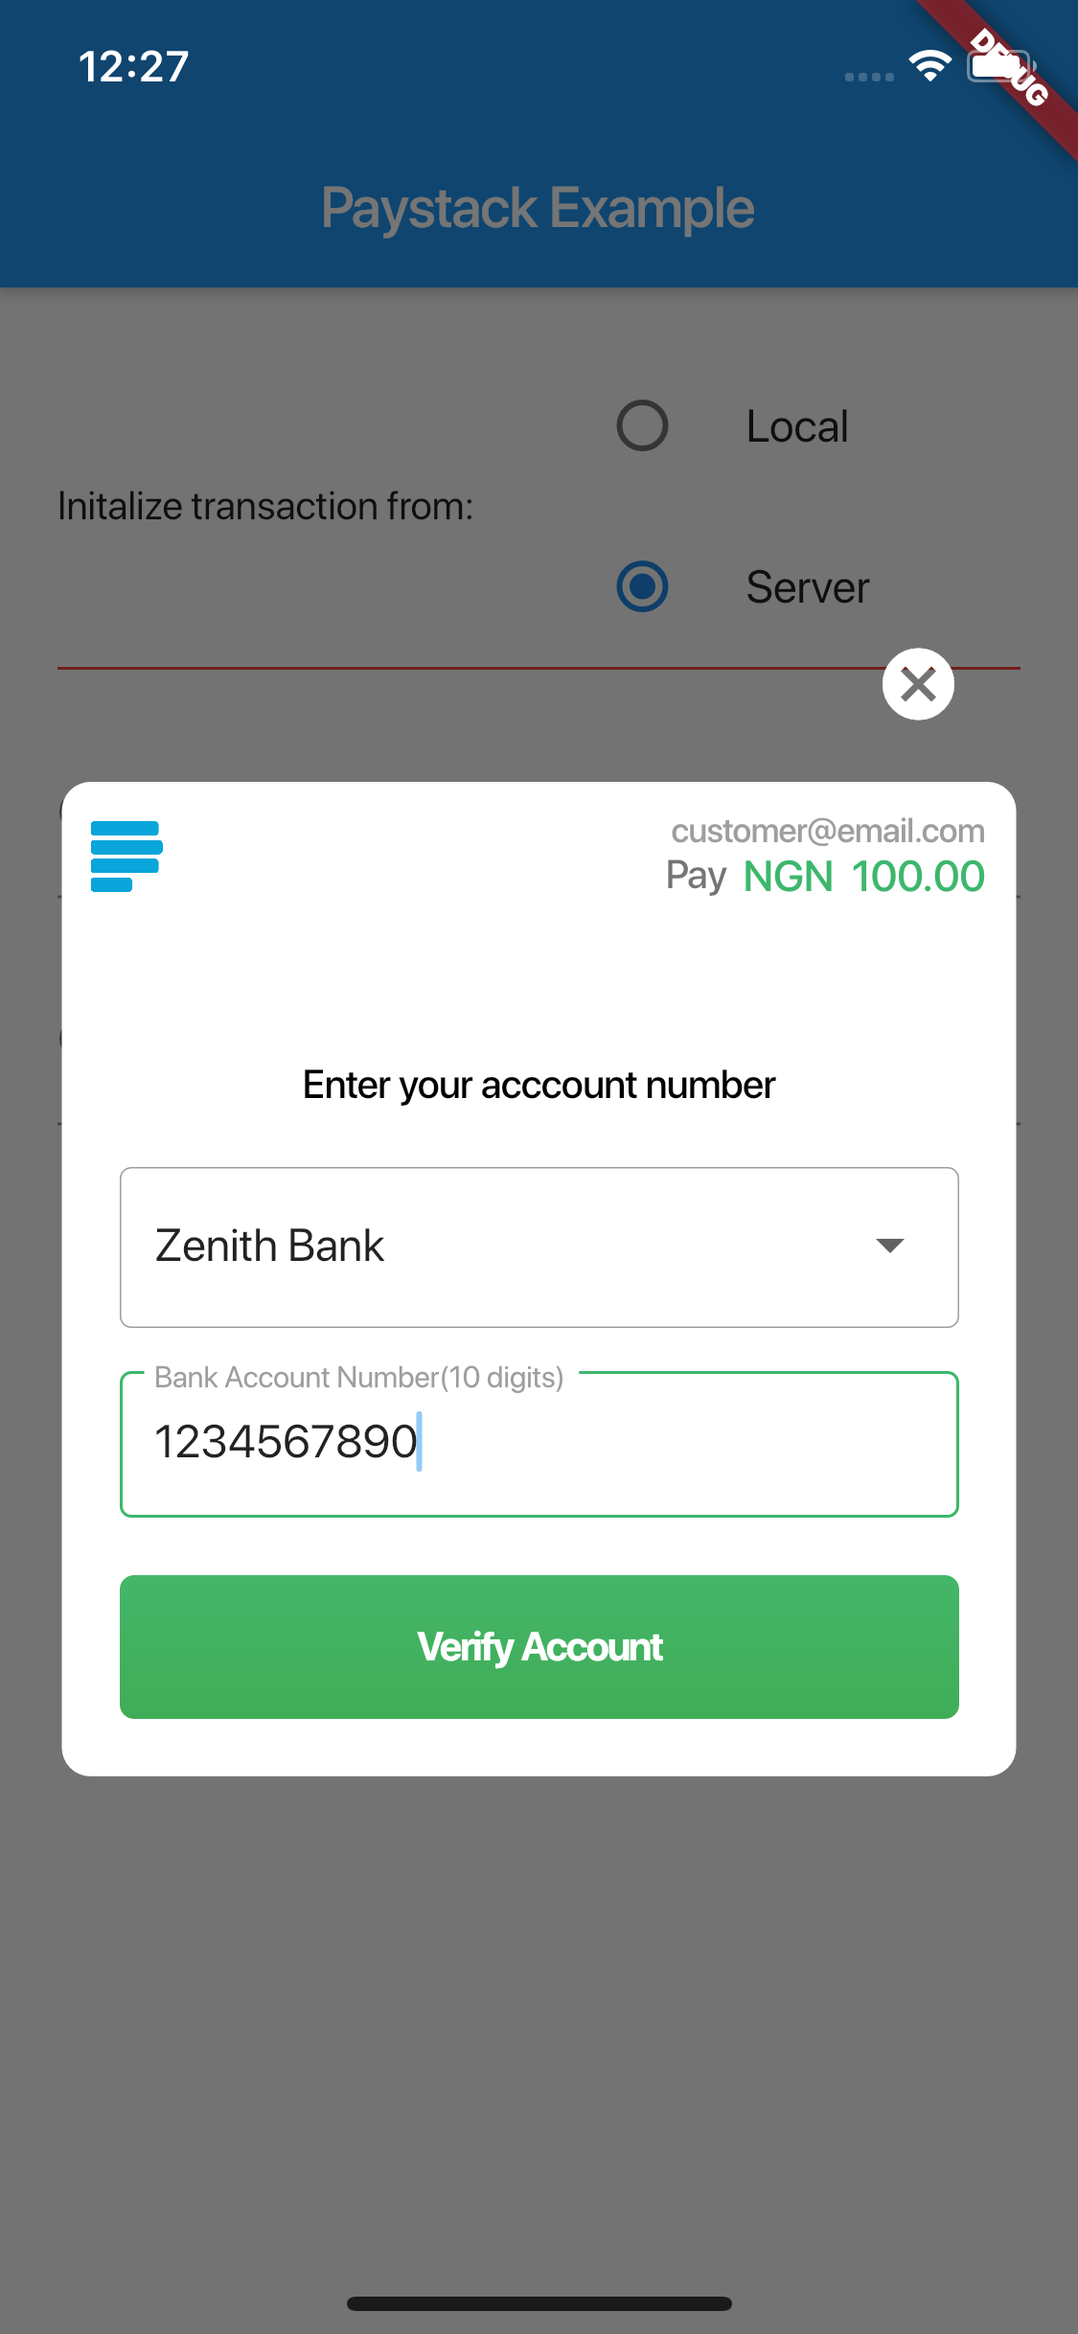
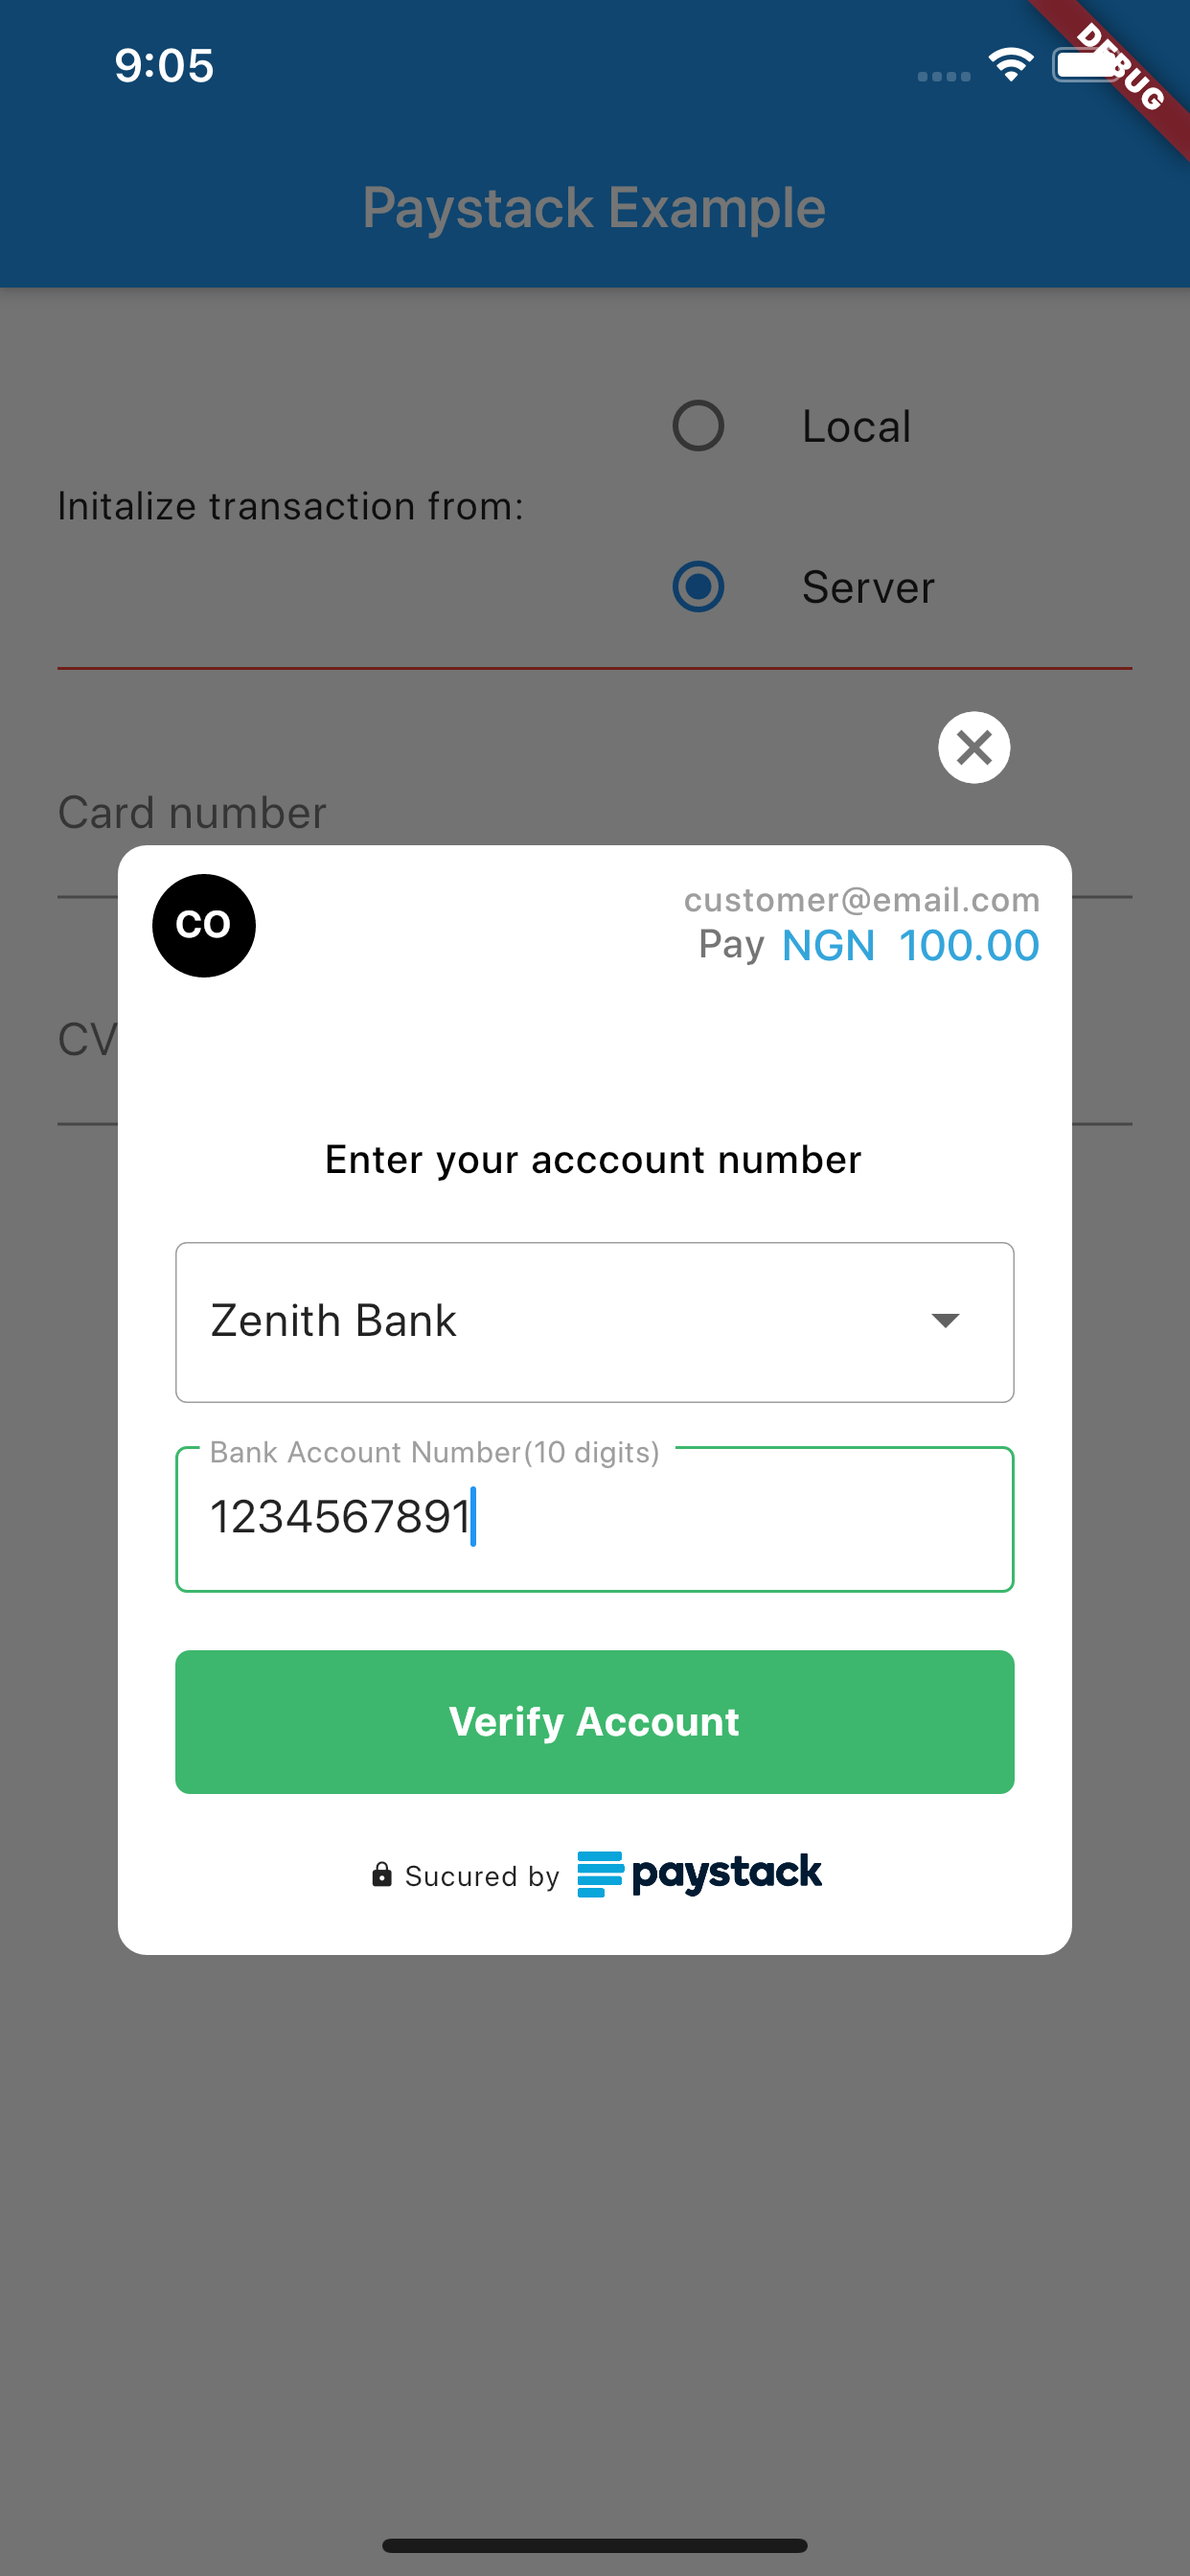
Changes for v1.0.2

diff --git a/CHANGELOG.md b/CHANGELOG.md
@@ -1,3 +1,10 @@
+## 1.0.2
+
+* Made plugin theme customizable
+* Switched deprecated UIWebView for WKWebView for iOS
+* Added a customizable company logo
+* Displayed "Secured by Paystack" at bottom of payment prompt
+
 ## 1.0.1+1
 
 * Bumped dependencies versions
